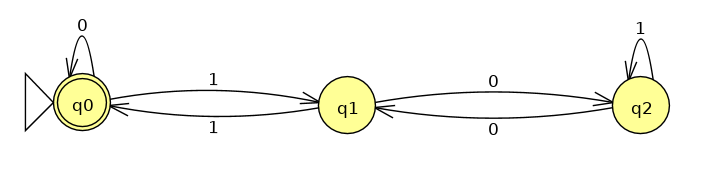
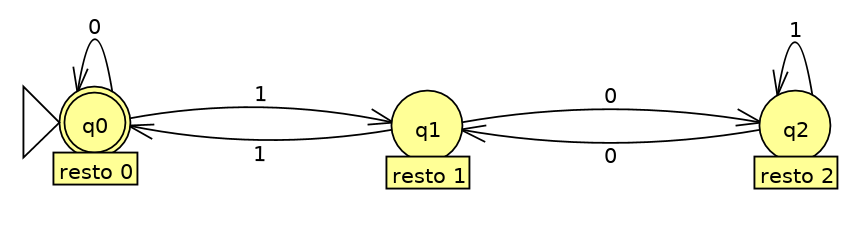
esercizi 12-03 e vari

Changed region(s): [[0.0, 0.0622, 0.9819, 0.8394]]

diff --git a/Esercizi_FA_RE.md b/Esercizi_FA_RE.md
@@ -21,16 +21,15 @@
 		- [Esercizio 1 (pag 14)](#esercizio-1-pag-14)
 		- [Esercizio 2 (pag 15)](#esercizio-2-pag-15)
 	- [Altri esercizi:](#altri-esercizi)
-		- [Esercizio 2 o 3 b](#esercizio-2-o-3-b)
 		- [Esercizio extra RE 1](#esercizio-extra-re-1)
+		- [Esercizio extra RE 2](#esercizio-extra-re-2)
 
-<!-- /TOC -->
+<!-- /TOC --># Esercizi DFA
 
-# Esercizi DFA
 ## Esercizi slide 2
 
 ### Esercizio c (pag 5)
-DFA che accetta l'insieme di tutte le stringhe in {0, 1}* che contengono 3 zeri anche non consecutivi.
+DFA che accetta l'insieme di tutte le stringhe in {0, 1}* che contengono esattamente 3 zeri anche non consecutivi.
 
 ![Esercizio 3](img/DFA/tre_zeri_3a.png "Esercizio c DFA")
 
@@ -74,33 +73,7 @@ DFA ottenuto dalla costruzione per sottoinsiemi a partire dall'NFA.
 
 DFA ottenuto con la costruzione per sottoinsiemi dall'automa:
 ![Esercizio 2](img/NFA/es3_dfa.png "Esercizio 3 sottoinsiemi")
-<!-- TOC depthFrom:1 depthTo:6 withLinks:1 updateOnSave:1 orderedList:0 -->
 
-- [Esercizi DFA](#esercizi-dfa)
-	- [Esercizi slide 2](#esercizi-slide-2)
-		- [Esercizio c (pag 5)](#esercizio-c-pag-5)
-		- [Esercizio d (pag 5)](#esercizio-d-pag-5)
-	- [Esercizio extra DFA](#esercizio-extra-dfa)
-- [Esercizi NFA](#esercizi-nfa)
-	- [Esercizi slide 2](#esercizi-slide-2)
-		- [Esercizio a (pag 12)](#esercizio-a-pag-12)
-		- [Esercizio b (pag 12)](#esercizio-b-pag-12)
-		- [Esercizio 2 costruzione per sottoinsiemi (pag 24)](#esercizio-2-costruzione-per-sottoinsiemi-pag-24)
-		- [Esercizio 3 (pag 25)](#esercizio-3-pag-25)
-	- [Esercizi extra NFA](#esercizi-extra-nfa)
-		- [Esercizio conversione NFA -> DFA](#esercizio-conversione-nfa-dfa)
-- [Esercizi 	&epsilon;-NFA](#esercizi-epsilon-nfa)
-	- [Esercizio slide 3 (pag 18)](#esercizio-slide-3-pag-18)
-	- [Esercizio 2.5.3 (b) del libro](#esercizio-253-b-del-libro)
-- [Espressioni regolari](#espressioni-regolari)
-	- [Esercizi slide 5](#esercizi-slide-5)
-		- [Esercizio 1 (pag 14)](#esercizio-1-pag-14)
-		- [Esercizio 2 (pag 15)](#esercizio-2-pag-15)
-	- [Altri esercizi:](#altri-esercizi)
-		- [Esercizio 2 o 3 b](#esercizio-2-o-3-b)
-		- [Esercizio extra RE 1](#esercizio-extra-re-1)
-
-<!-- /TOC -->
 ## Esercizi extra NFA
 
 ### Esercizio conversione NFA -> DFA
@@ -210,19 +183,18 @@ Possibile soluzione: `(0+1+eps)(1+(000*))*(0+1+eps)`
 
 **Sfida**: tutte le stringhe che interpretate come numeri binari rappresentano un multiplo di 3.
 
-Possibile soluzione: `((0+11)+10(1+00)*01)*`
-
-DFA corrispondente:
+DFA corrispondente (dal quale si può ottenere la RE):
 ![Esercizio 2 (sfida)](img/DFA/multipli3.png "DFA multipli di 3")
+L'automa modella i possibili resti (modulo 3) di ogni stringa binaria interpretata come numero binario. Pertanto accetta solamente se il resto è 0, cioè quando è un multiplo di 3.
 
 
 ## Altri esercizi:
-### Esercizio 2 o 3 b
+### Esercizio extra RE 1
 Espressione regolare che accetta tutte le stringhe su &Sigma;={a, b} che contengono esattamente 2 oppure 3 lettere 'b'
 
 Soluzione: `a*ba*ba*(ba*+a*)`
 
-### Esercizio extra RE 1
+### Esercizio extra RE 2
 Espressione regolare che accetta stringhe con numero di 0 multiplo di 5.
 
-Soluzione: `(1*01*01*01*01*01*)*`
+Soluzione: `(1+(01*01*01*01*0))*`
